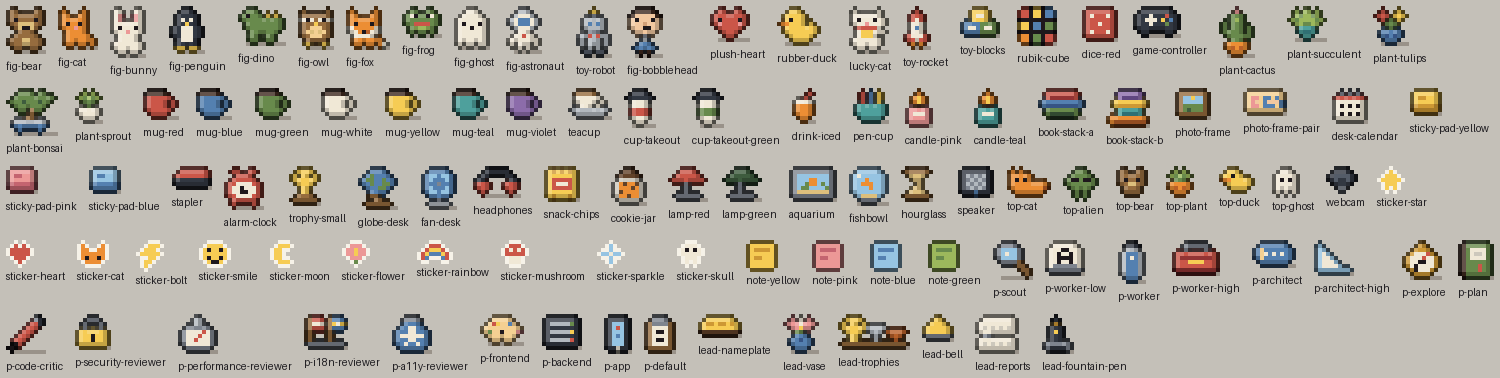
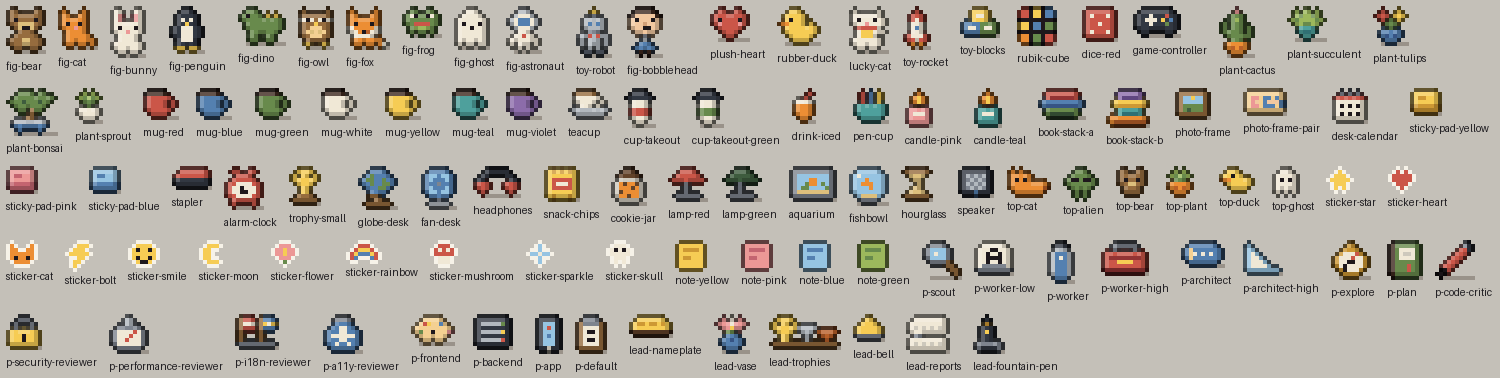
fix: remove the webcam decor item
Redrawn from behind it is dark on the dark monitor back and invisible,
so a monitor holding only it read as bare. Regenerate the atlas and previews.

diff --git a/art/decor/sprites.py b/art/decor/sprites.py
@@ -548,12 +548,6 @@ wzwzw
 wwwww
 wwwww
 w.w.w""")
-add("webcam", "monitorTop", ["tech"], """
-.KKKK.
-KkkkkK
-KkKKkK
-.KKKK.
-..SS..""")
 
 # ---------------------------------------------------------------- bezel stickers (white die-cut border)
 sticker("sticker-star", """
